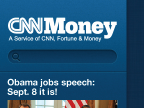
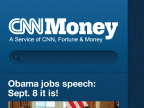
working through making the details page assets retina friendly. just finished the fitcode pages

diff --git a/cnnmoney.html b/cnnmoney.html
@@ -27,10 +27,42 @@
 
 		<p>When CNNMoney approached Übermind to do an iPad app they were looking for an app that would break new ground and make waves in the news & financial industry. I worked closely with a UX designer and a team of iOS developers to formulate a tablet experience that was dynamic and tailored to the user's needs and habits. A trio of &ldquo;blades&rdquo; on the main screen could be expanded and pushed aside to reveal more or less information on the current financial markets, news, and trending topics. Pushing all the blades to the side would reveal the users Watchlist tailored to the stocks and index's they cared about the most. The content that is served to the user gets refined based on what topics and stories they read the most, making this app a useful and delightful experience for casual market watchers and financial professionals alike.</p>
 		
-		<a href="images/CNNMoney_01_full.jpg"><img src="images/CNNMoney_01.jpg"></a>
-		<a href="images/CNNMoney_02_full.png"><img src="images/CNNMoney_02.jpg"></a>
-		<a href="images/CNNMoney_03_full.jpg"><img src="images/CNNMoney_03.jpg"></a>
-		<a href="images/CNNMoney_04_full.png"><img src="images/CNNMoney_04.jpg"></a>
+		<a href="images/CNNMoney_01_full.jpg">
+			<img 
+        srcset="images/cnnm-01_-5x 275w,
+        images/cnnm-01_1x.png 550w,
+        images/cnnm-01_1-5x.png 825w,
+        images/cnnm-01_2x.png 1100w"
+        src="images/cnnm-01_1x.png" 
+        alt="design for the cnn moeny ipad app">
+		</a>
+		<a href="images/CNNMoney_02_full.png">
+			<img 
+        srcset="images/cnnm-02_-5x 275w,
+        images/cnnm-02_1x.png 550w,
+        images/cnnm-02_1-5x.png 825w,
+        images/cnnm-02_2x.png 1100w"
+        src="images/cnnm-02_1x.png" 
+        alt="design for the cnn moeny ipad app">
+		</a>
+		<a href="images/CNNMoney_03_full.jpg">
+			<img 
+        srcset="images/cnnm-03_-5x 275w,
+        images/cnnm-03_1x.png 550w,
+        images/cnnm-03_1-5x.png 825w,
+        images/cnnm-03_2x.png 1100w"
+        src="images/cnnm-03_1x.png" 
+        alt="design for the cnn moeny ipad app">
+		</a>
+		<a href="images/CNNMoney_04_full.png">
+			<img 
+        srcset="images/cnnm-04_-5x 275w,
+        images/cnnm-04_1x.png 550w,
+        images/cnnm-04_1-5x.png 825w,
+        images/cnnm-04_2x.png 1100w"
+        src="images/cnnm-04_1x.png" 
+        alt="design for the cnn moeny ipad app">
+		</a>
 
 		<div id="onecolfooter">
 			<div class="footerline"></div>

diff --git a/fitcode.html b/fitcode.html
@@ -31,14 +31,39 @@
 
         <p>I prepped 3 options for the founders and we landed on a monogram direction that features both a unique symbol and a clean geometric wordmark. The color palette is drawn from shades of denim with the chartreuse color of measuring tape (representing our data analytics) used as an accent. As part of this brand build out, I prepared a number of print assets which feature some of my own photography and (in one case) custom embroidery. </p>
         
-        <img src="images/Fitcode_01.gif" alt="Fitcode logo" width="550" height="350">
+        <img 
+            srcset="images/fcbrand-01_-5x 275w,
+            images/fcbrand-01_1x.png 550w,
+            images/fcbrand-01_1-5x.png 825w,
+            images/fcbrand-01_2x.png 1100w"
+            src="images/fcbrand-01_1x.png" 
+            alt="fitcode logo">
         <h5>Fitcode logo</h5>
-        <img src="images/fitcode-Bcards.jpg" alt="Fitcode business cards" width="550" height="350">
+        <img 
+            srcset="images/fcbrand-02_-5x 275w,
+            images/fcbrand-02_1x.png 550w,
+            images/fcbrand-02_1-5x.png 825w,
+            images/fcbrand-02_2x.png 1100w"
+            src="images/fcbrand-02_1x.png" 
+            alt="fitcode business cards">
         <h5>Fitcode business cards</h5>
-        <img src="images/fitcode-Notecards.jpg" alt="Fitcode fold cards" width="550" height="550">
+        <img 
+            srcset="images/fcbrand-03_-5x 275w,
+            images/fcbrand-03_1x.png 550w,
+            images/fcbrand-03_1-5x.png 825w,
+            images/fcbrand-03_2x.png 1100w"
+            src="images/fcbrand-03_1x.png" 
+            alt="fitcode promotional cards">
         <h5>Fitcode promotional cards</h5>
-        <img src="images/fitcode-Foldcards.jpg" alt="Fitcode fold cards" width="550" height="550">
+        <img 
+            srcset="images/fcbrand-04_-5x 275w,
+            images/fcbrand-04_1x.png 550w,
+            images/fcbrand-04_1-5x.png 825w,
+            images/fcbrand-04_2x.png 1100w"
+            src="images/fcbrand-04_1x.png" 
+            alt="fitcode holiday and thank you cards">
         <h5>Fitcode holiday and thank you cards</h5>
+
         <div id="onecolfooter">
             <div class="footerline"></div>
             <p class="center footertext">Copyright &copy; 2018. All rights reserved. 

diff --git a/arose.html b/arose.html
@@ -28,12 +28,31 @@
 		<p>I was asked by Alessandra Rose a local musician, singer and songwriter to help design the website, album cover, and screen-print poster for the release of her album &ldquo;You Are Gold.&rdquo; I brought her vision to life for the album and promotional pieces, and we worked together to do a run of screenprint posters at the Vera Project screen print studio.</p>
 		<div class="pb"><p>Visit <a href="http://www.alessandrarose.com">alessandrarose.com</a></p></div>
 
-		<img src="images/AlessandraRose_01.jpg">
+		<img 
+      srcset="images/arose-01_-5x 275w,
+      images/arose-01_1x.png 550w,
+      images/arose-01_1-5x.png 825w,
+      images/arose-01_2x.png 1100w"
+      src="images/arose-01_1x.png"
+      alt="promotional website design for allesandra rose">
 		<h5>Promotional Website</h5>
 
-		<img class="collage" src="images/AlessandraRose_02.jpg">
+		<img 
+      srcset="images/arose-02_-5x 275w,
+      images/arose-02_1x.png 550w,
+      images/arose-02_1-5x.png 825w,
+      images/arose-02_2x.png 1100w"
+      src="images/arose-02_1x.png"
+      alt="screenprint poster for allesandra rose album release You Are Gold">
 		<h5>Screenprint Album Release Poster</h5>
-		<img class="collage" src="images/AlessandraRose_03.jpg">
+
+		<img 
+      srcset="images/arose-03_-5x 275w,
+      images/arose-03_1x.png 550w,
+      images/arose-03_1-5x.png 825w,
+      images/arose-03_2x.png 1100w"
+      src="images/arose-03_1x.png"
+      alt="album artwork for allesandra rose album release You Are Gold">
 		<h5>CD Album design</h5>
 
 		<div id="onecolfooter">

diff --git a/fcweb.html b/fcweb.html
@@ -29,9 +29,25 @@
 
         <p>Visit <a href="https://fitcode.com/">fitcode.com</a></p>
         
-        <a href="https://fitcode.com/"><img src="images/fcweb-landing.jpg" id="border" alt="Fitcode logo" width="550" height="919"></a>
+        <a href="https://fitcode.com/">
+            <img 
+                srcset="images/fcweb-01_-5x 275w,
+                images/fcweb-01_1x.png 550w,
+                images/fcweb-01_1-5x.png 825w,
+                images/fcweb-01_2x.png 1100w"
+                src="images/fcweb-01_1x.png" 
+                alt="webdesign for landing page of fitcode website">
+        </a>
         <h5>Landing page</h5>
-        <a href="https://fitcode.com/about-us"><img src="images/fcweb-aboutus.jpg" class="collage"  id="border" alt="Fitcode logo" width="550" height="1652"></a>
+        <a href="https://fitcode.com/about-us">
+            <img 
+                srcset="images/fcweb-02_-5x 275w,
+                images/fcweb-02_1x.png 550w,
+                images/fcweb-02_1-5x.png 825w,
+                images/fcweb-02_2x.png 1100w"
+                src="images/fcweb-02_1x.png" 
+                alt="webdesign for about us page of fitcode website">
+        </a>
         <h5>About us page</h5>
     
         <div id="onecolfooter">

diff --git a/ballard.html b/ballard.html
@@ -31,7 +31,15 @@
 		<p>The site design and content is inspired from M. Sasek's wonderful children's book &ldquo;This is San Fransisco&rdquo; and is based on the Seattle neighborhood I used to live in. I did the illustrations in watercolor based on photos I took while exploring the streets and waterways of Ballard.</p>
 		<div class="pb"><p>Visit <a href="http://www.greffdesign.com/ballard/index.html">This is Ballard.</a></p></div>
 
-		<a href="http://www.greffdesign.com/ballard/index.html"><img src="images/Thisisballard_01.jpg"></a>
+		<a href="http://www.greffdesign.com/ballard/index.html">
+			<img 
+      srcset="images/bllrd-01_-5x 275w,
+      images/bllrd-01_1x.png 550w,
+      images/bllrd-01_1-5x.png 825w,
+      images/bllrd-01_2x.png 1100w"
+      src="images/bllrd-01_1x.png"
+      alt="webdesign for a website about ballard">
+		</a>
 
 		<div id="onecolfooter">
 			<div class="footerline"></div>

diff --git a/amazon.html b/amazon.html
@@ -33,7 +33,15 @@
 
         <p>Visit an example of Amazon's <a href="https://www.amazon.com/gp/bookseries/B00CJG28U8/ref=dp_st_059035342X" target="_blank">book series page</a>. (<strong>Note:</strong> the design has evolved since my time there in 2014).</p>
         
-        <a href="images/Amazon_book-series_full.jpg"><img src="images/Amazon_book-series.jpg" alt="amazon book series design" width="550" height="967"></a>
+        <a href="images/Amazon_book-series_full.jpg">
+            <img 
+                srcset="images/amz-01_-5x 275w,
+                images/amz-01_1x.png 550w,
+                images/amz-01_1-5x.png 825w,
+                images/amz-01_2x.png 1100w"
+                src="images/amz-01_1x.png" 
+            alt="amazon book series design">
+        </a>
 
         <div id="onecolfooter">
             <div class="footerline"></div>
